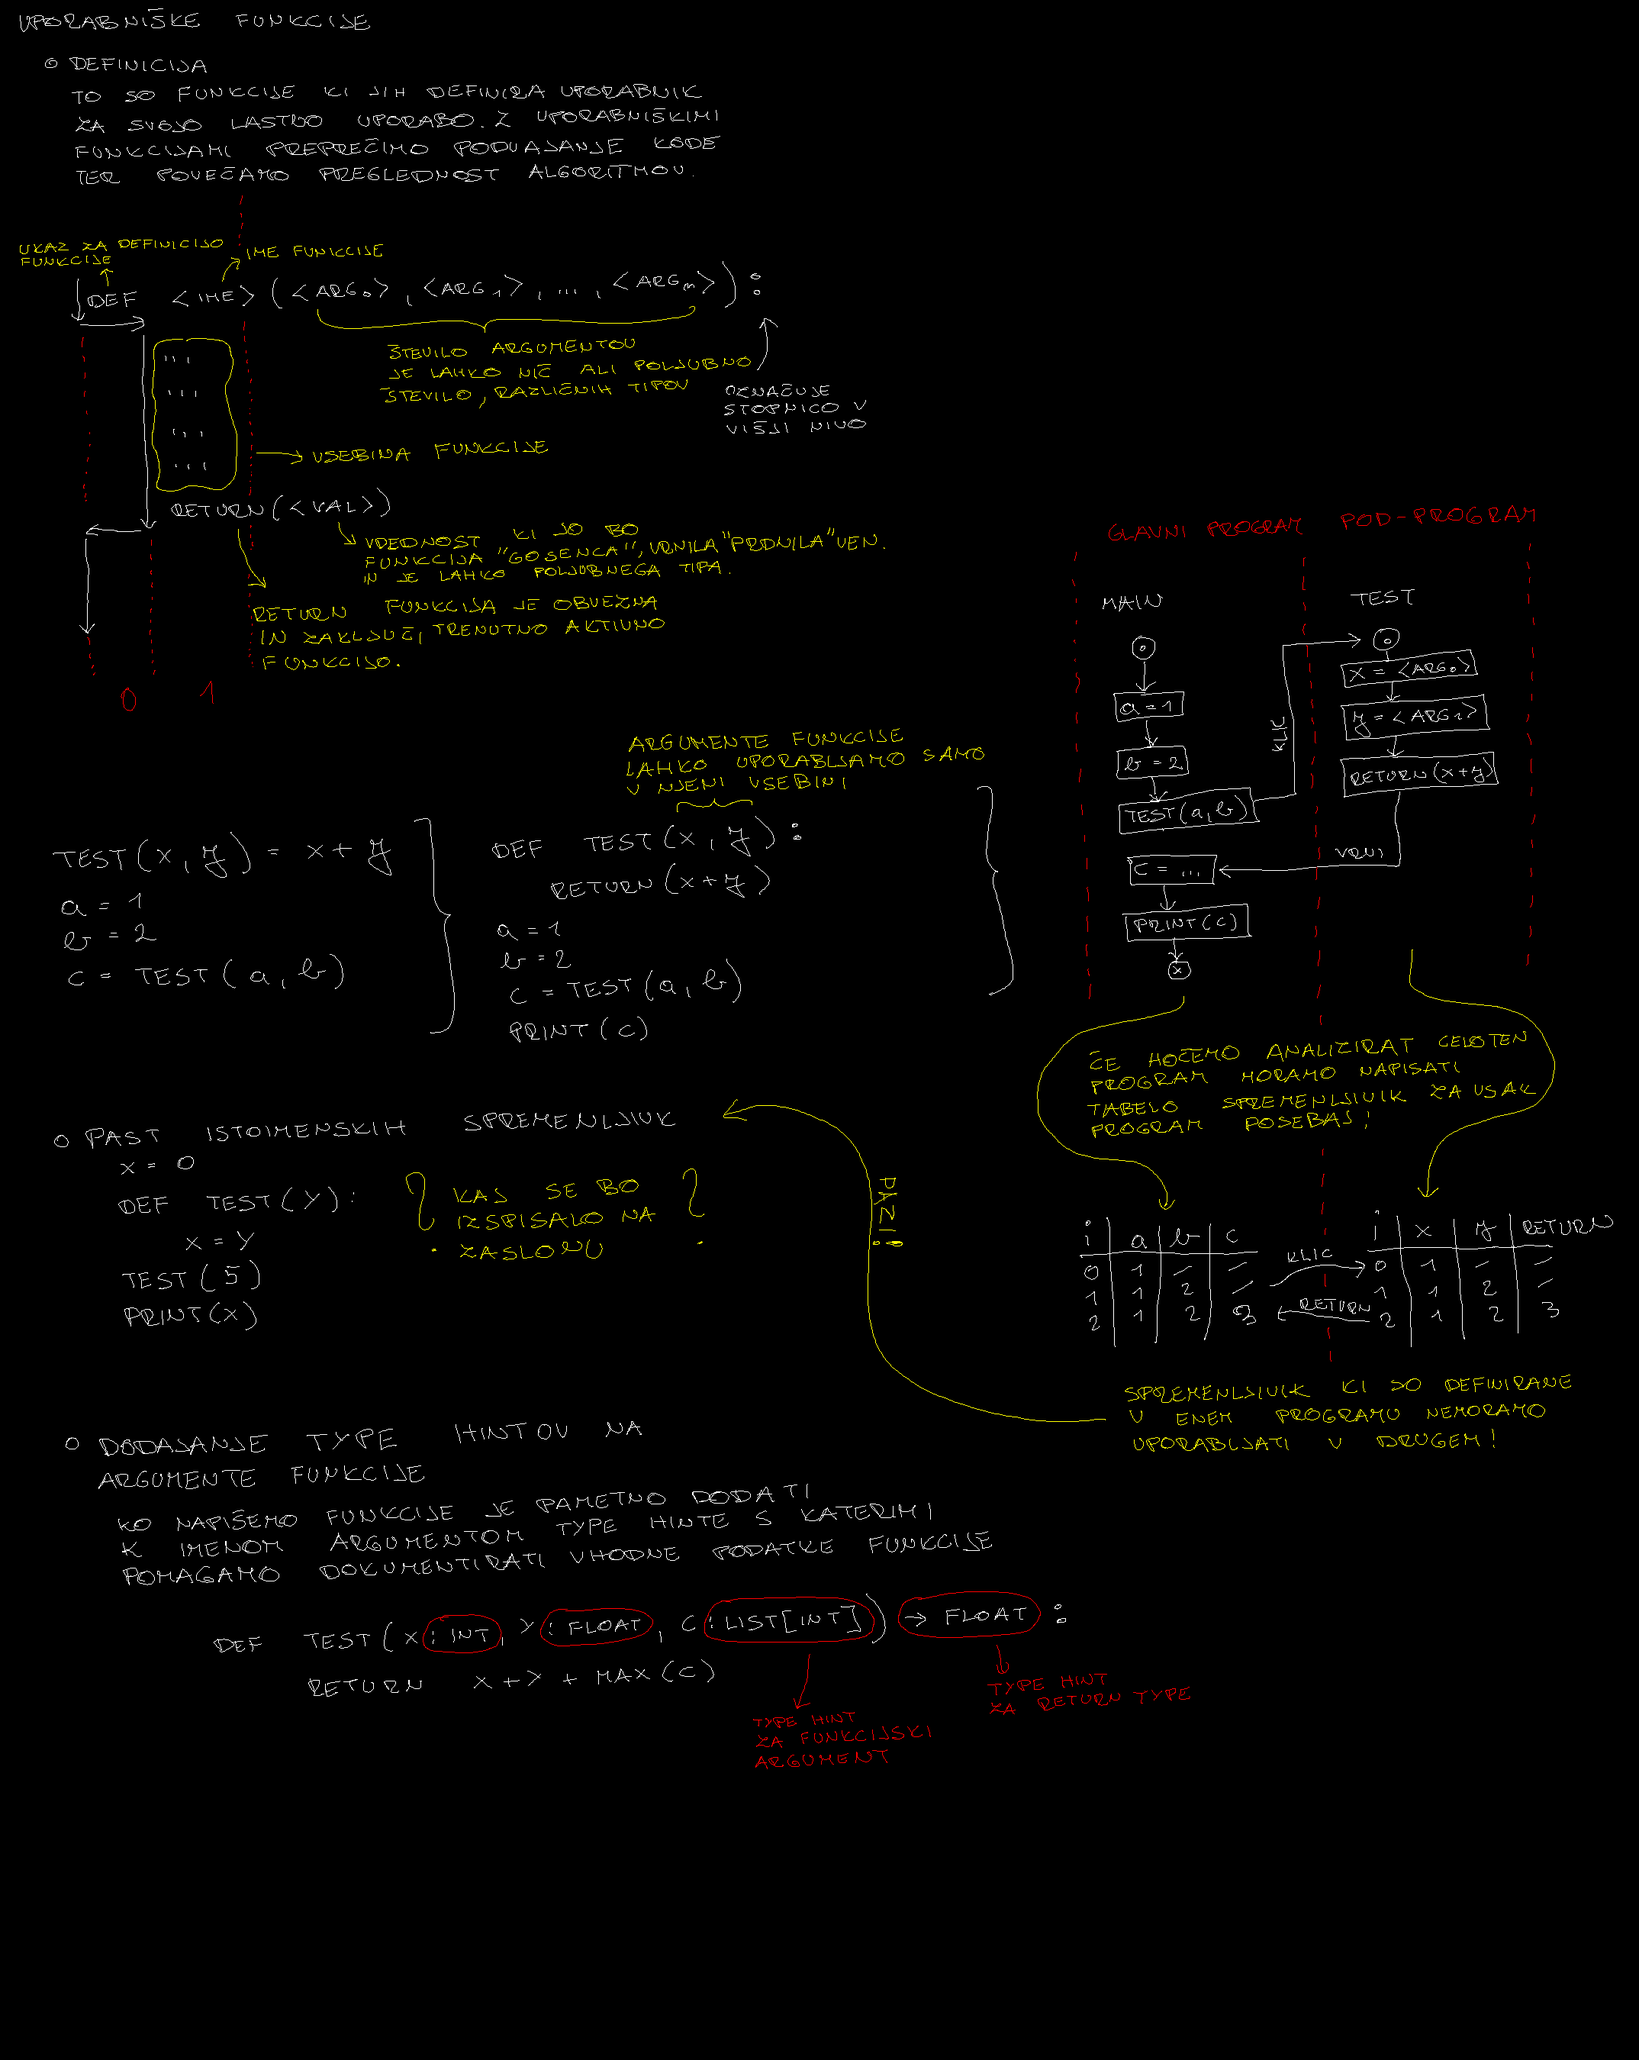
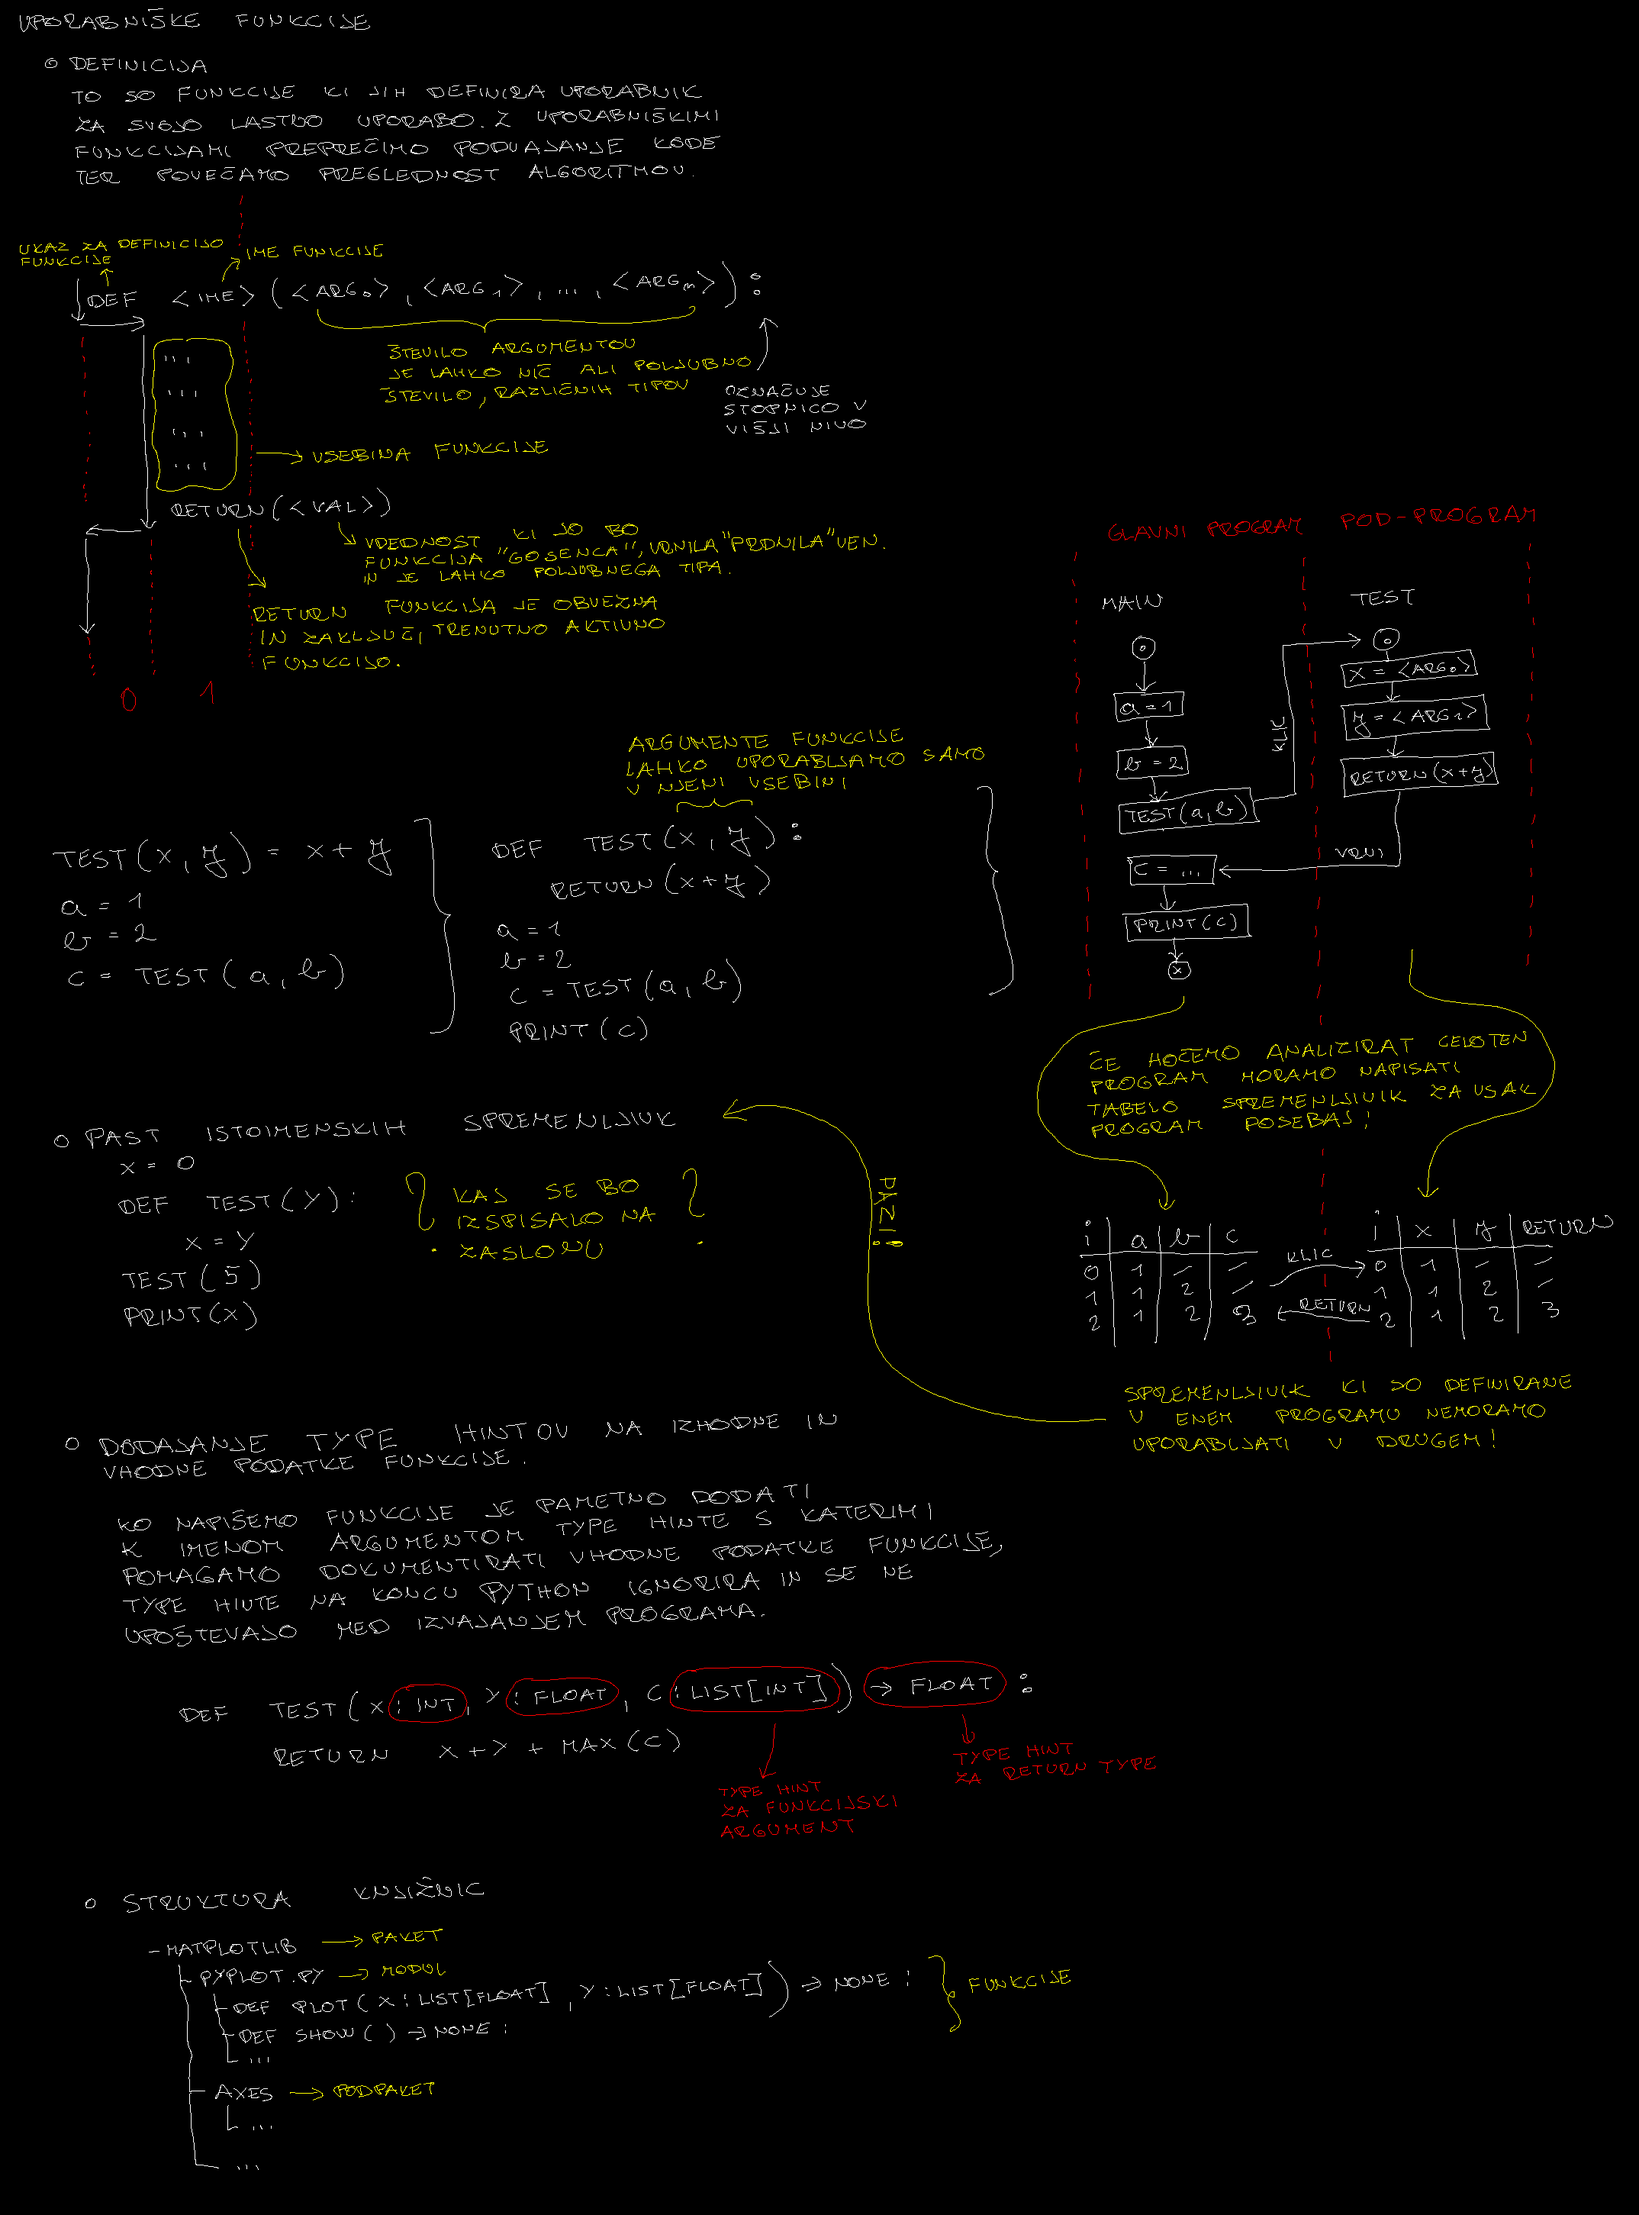
Dodana je bila struktura uporabniških knjižnic.

diff --git a/README.md b/README.md
@@ -73,3 +73,8 @@ Učna snov za predmet informatike za gimnazije.
   * Napiši program, ki prebere tekstovno datoteko nato pa za vsako besedo, ki se pojavi v tekstu izpiši število ponovitev v celotnem tekstu.
   * Napiši program, ki iz dveh tekstovnih datotek najde skupne besede, besede ki se nahajajo samo v prvi, in nato še besede ki se nahajajo samo v drugi datoteki.
   * Napiši program, ki prebere kodo iz napisanega programa in ustvari novo datoteko z enako vsebino samo da na začetku teksta doda poljuben komentar.
+10. Python uporabniške funkcije
+  * Kaj so uporabniške funkcije ter zakaj jih uporabljamo.
+  * Kaj so type hints-i ter zakaj jih uporabljamo ter kakšno vlogo imajo med izvajanjem programa.
+  * Definiraj uporabniško funkcijo z type hinti, poimenuj njene sestavne elemente, napiši realen primer uporabe uporabniške funkcije in za ta primer nariši flowchart risbo ter tabele spremenljivk.
+  * Opiši tipično strukturo python knjižnic ter ustvari svojo lastno knjižnico aritmetičnih matematičnih funkcij in sestavi algoritem, ki bo uporabljal vse funkcije v ustvarjenem paketu.
